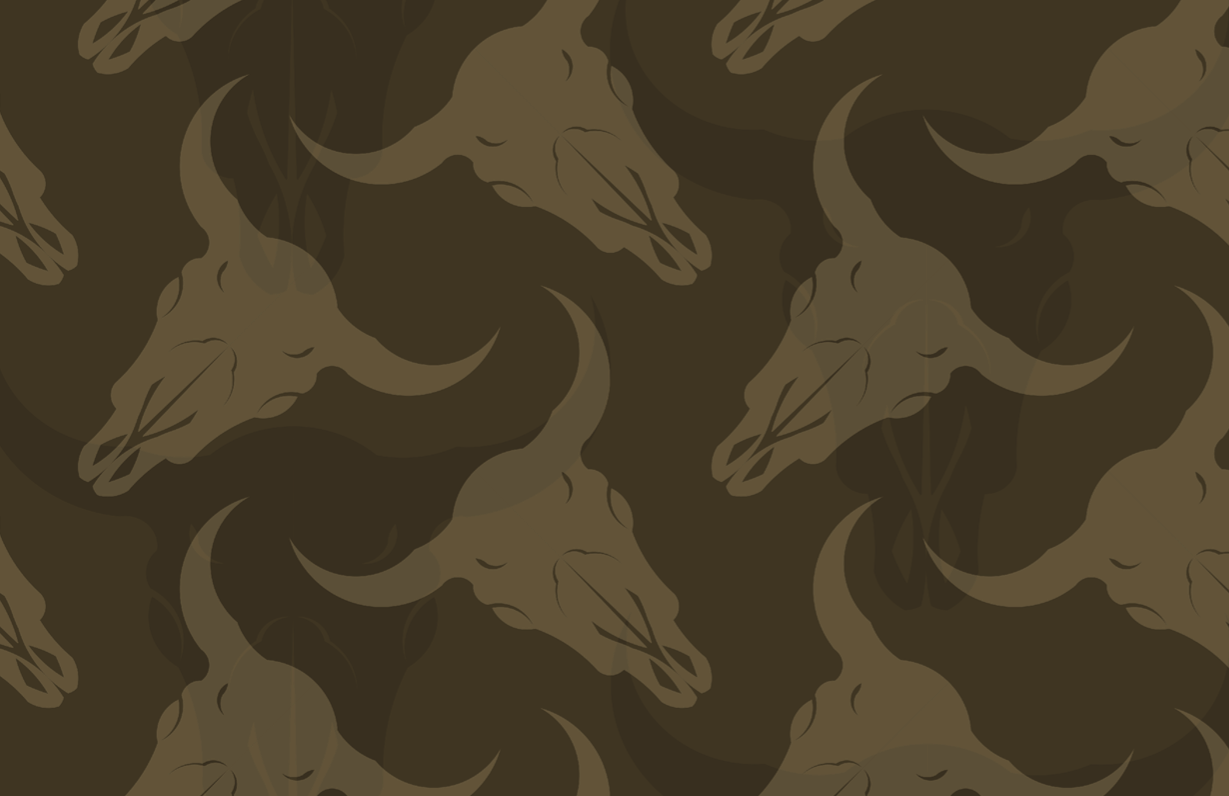
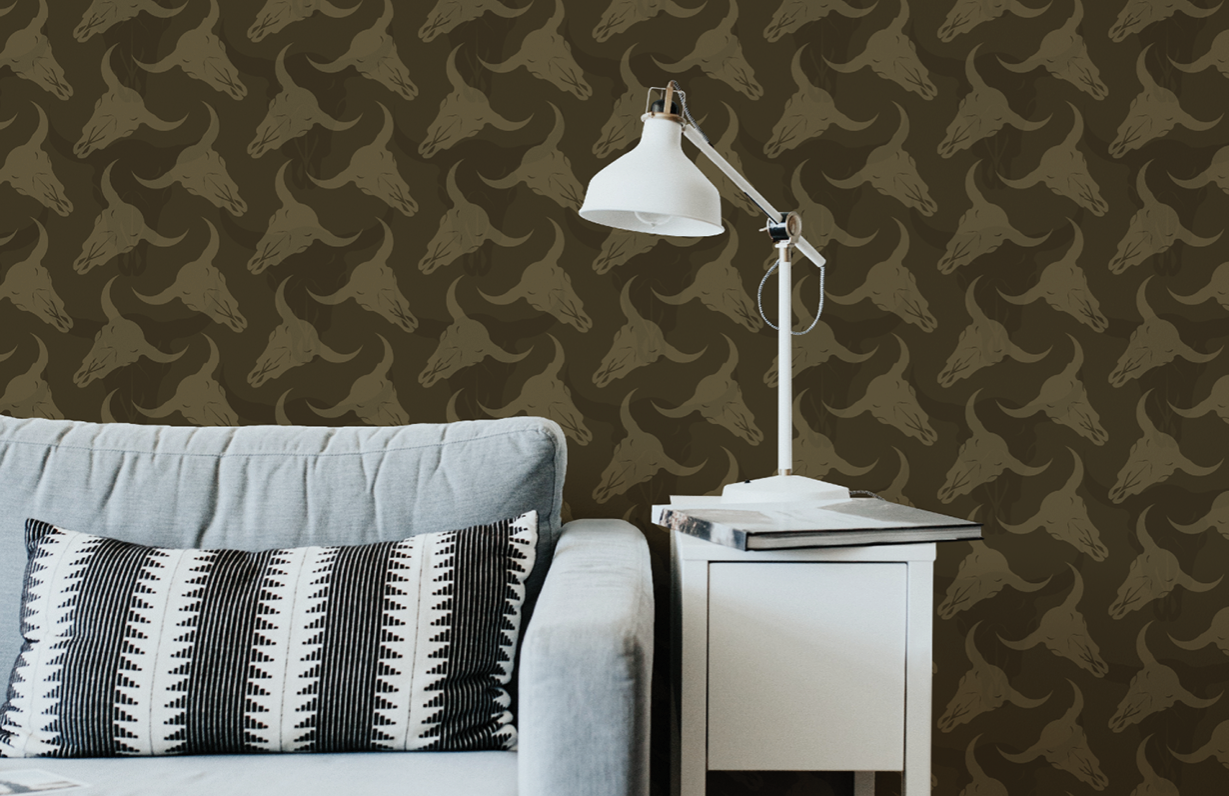
Thumbnails to color (rest)

diff --git a/projects.html b/projects.html
@@ -30,7 +30,7 @@
 					</div>
 				</div>
 				<div class="container float third">
-					<a href="ice.html"><img src="images/thumbnails/thumbnail_page_ice.png" alt="Rebrand &ndash; The Institute of Culinary Education" class="image"></a>
+					<a href="ice.html"><img src="images/thumbnails/thumbnail_color_ice.png" alt="Rebrand &ndash; The Institute of Culinary Education" class="image"></a>
 					<div class="middle">
 				    <div class="text">Rebrand</div>
 				  </div>
@@ -72,7 +72,7 @@
 					</div>
 				</div>
 				<div class="container float third">
-					<a href="house.html"><img src="images/thumbnails/thumbnail_page_house.png" alt="Photoshop &ndash; House Redesign" class="image"></a>
+					<a href="house.html"><img src="images/thumbnails/thumbnail_color_house.png" alt="Photoshop &ndash; House Redesign" class="image"></a>
 					<div class="middle">
 						<div class="text">Photographic Composition</div>
 					</div>
